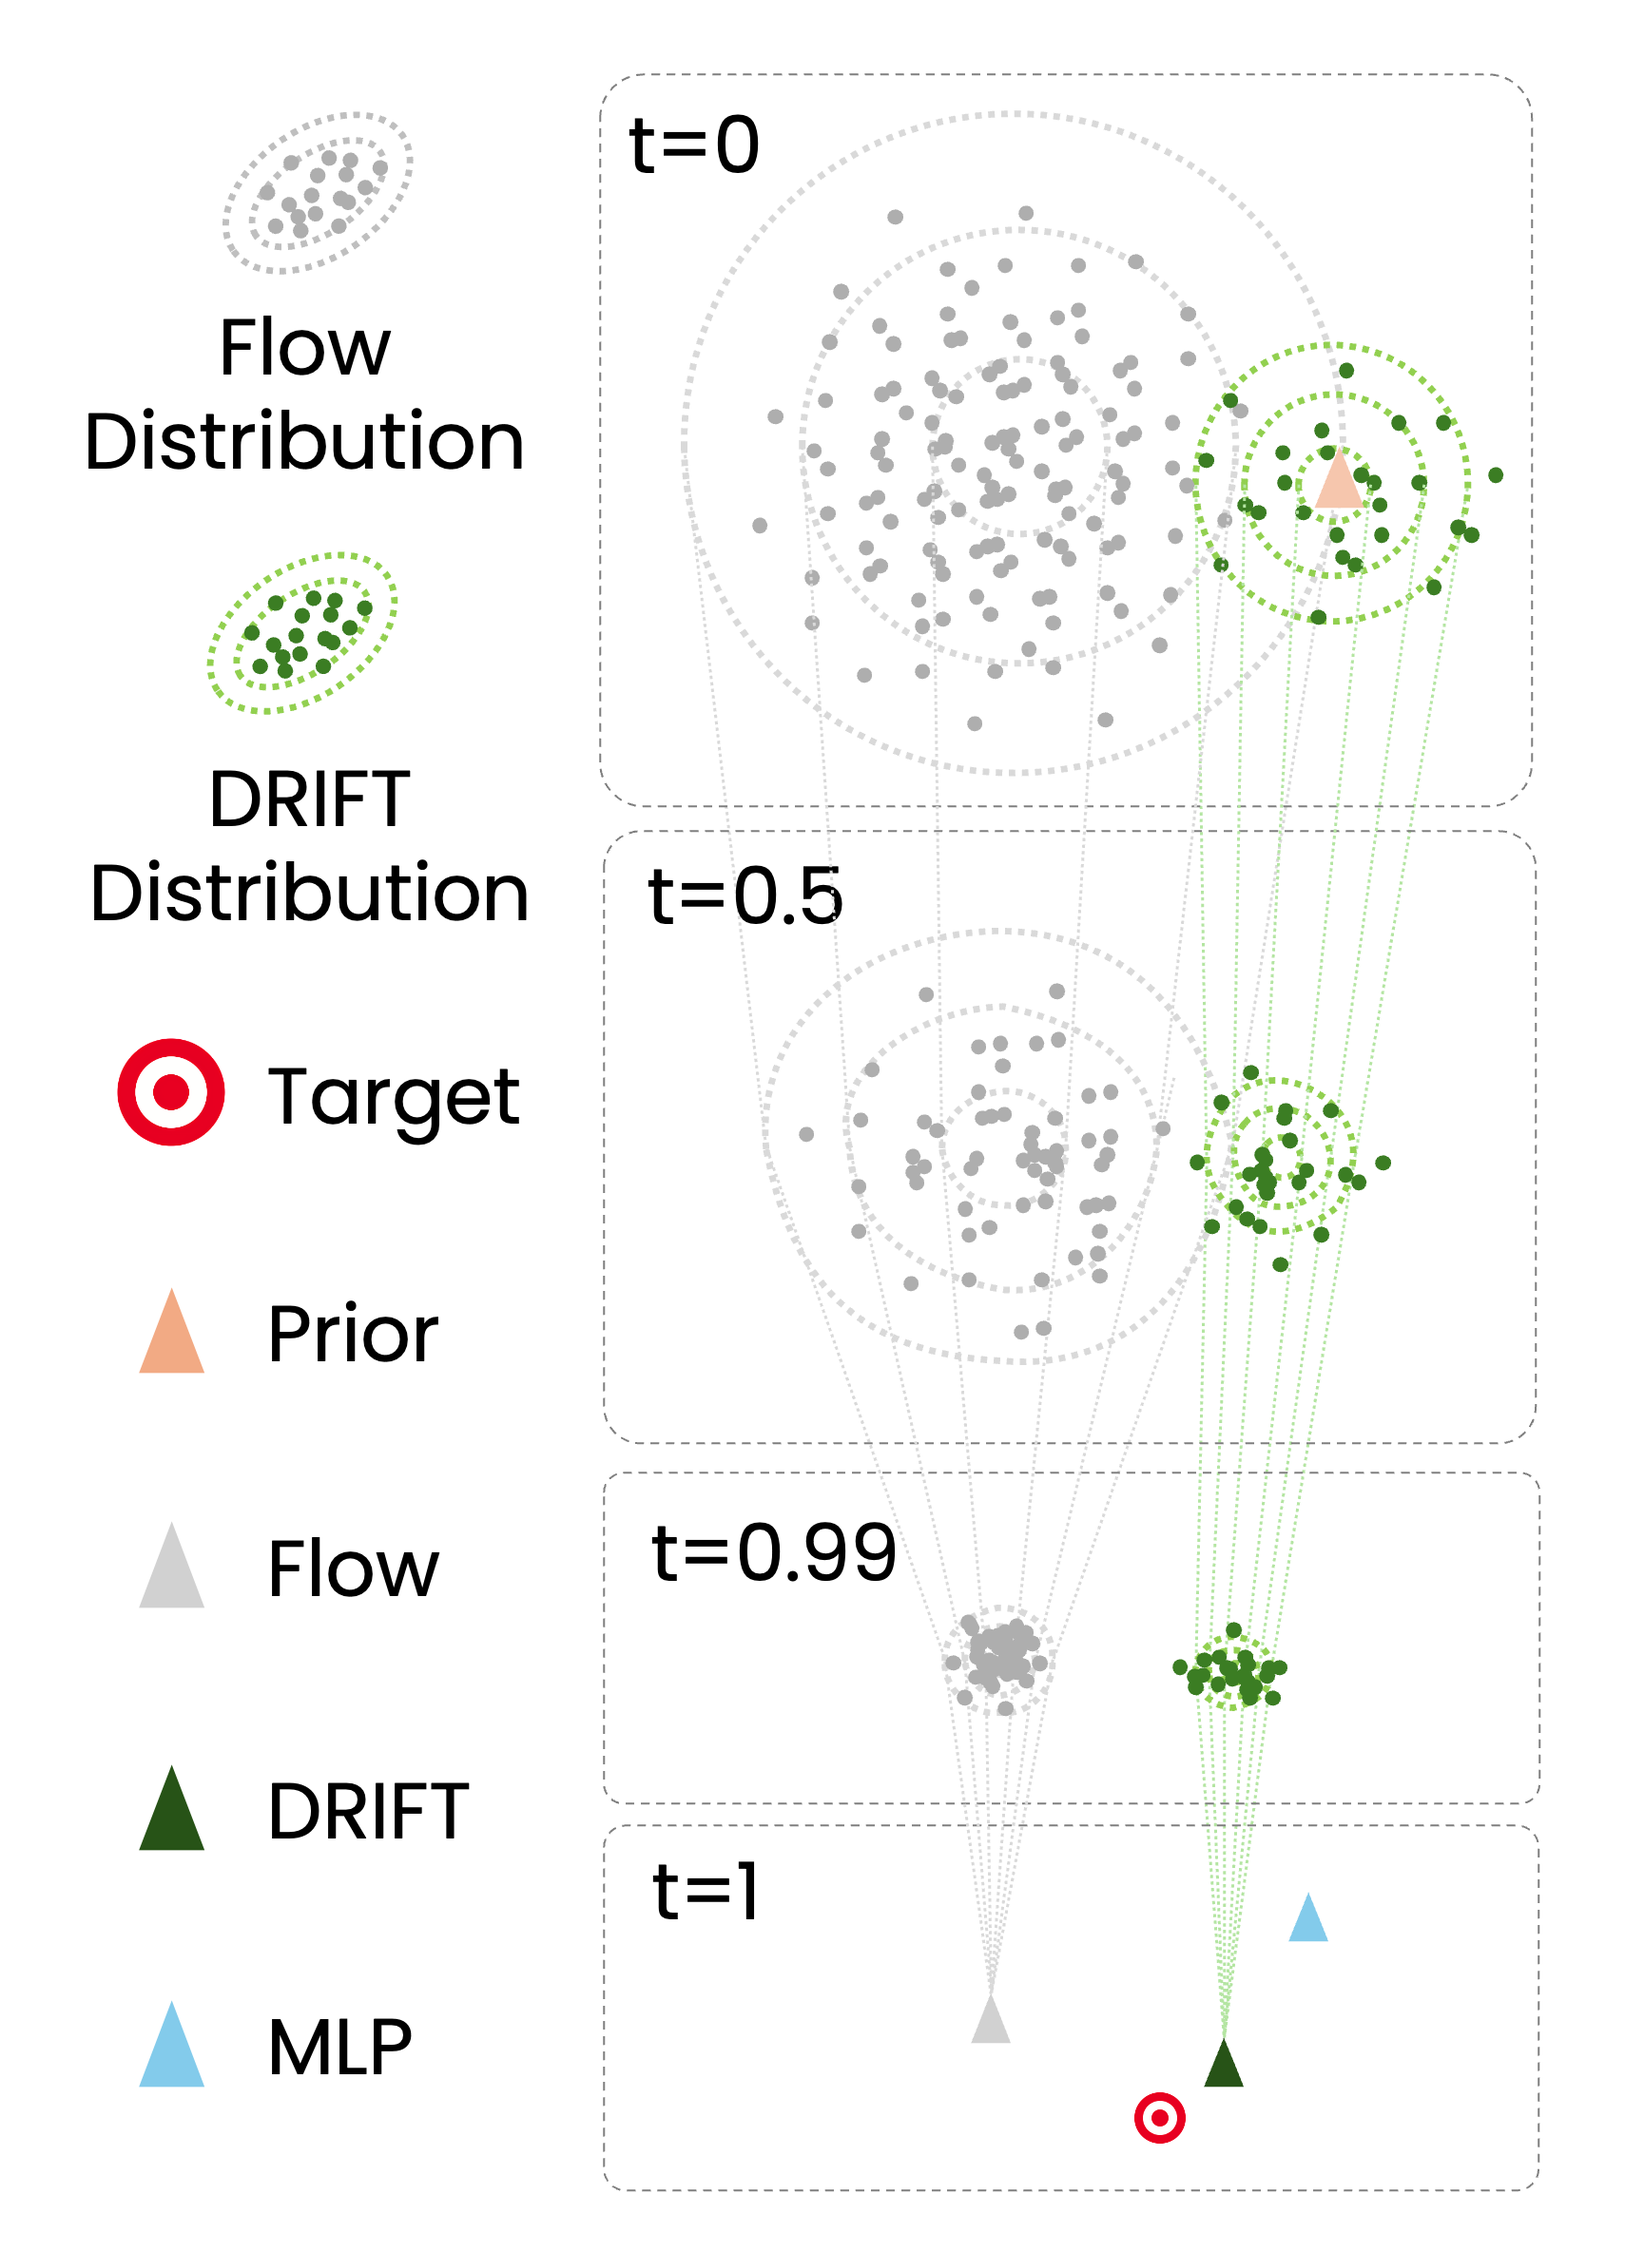
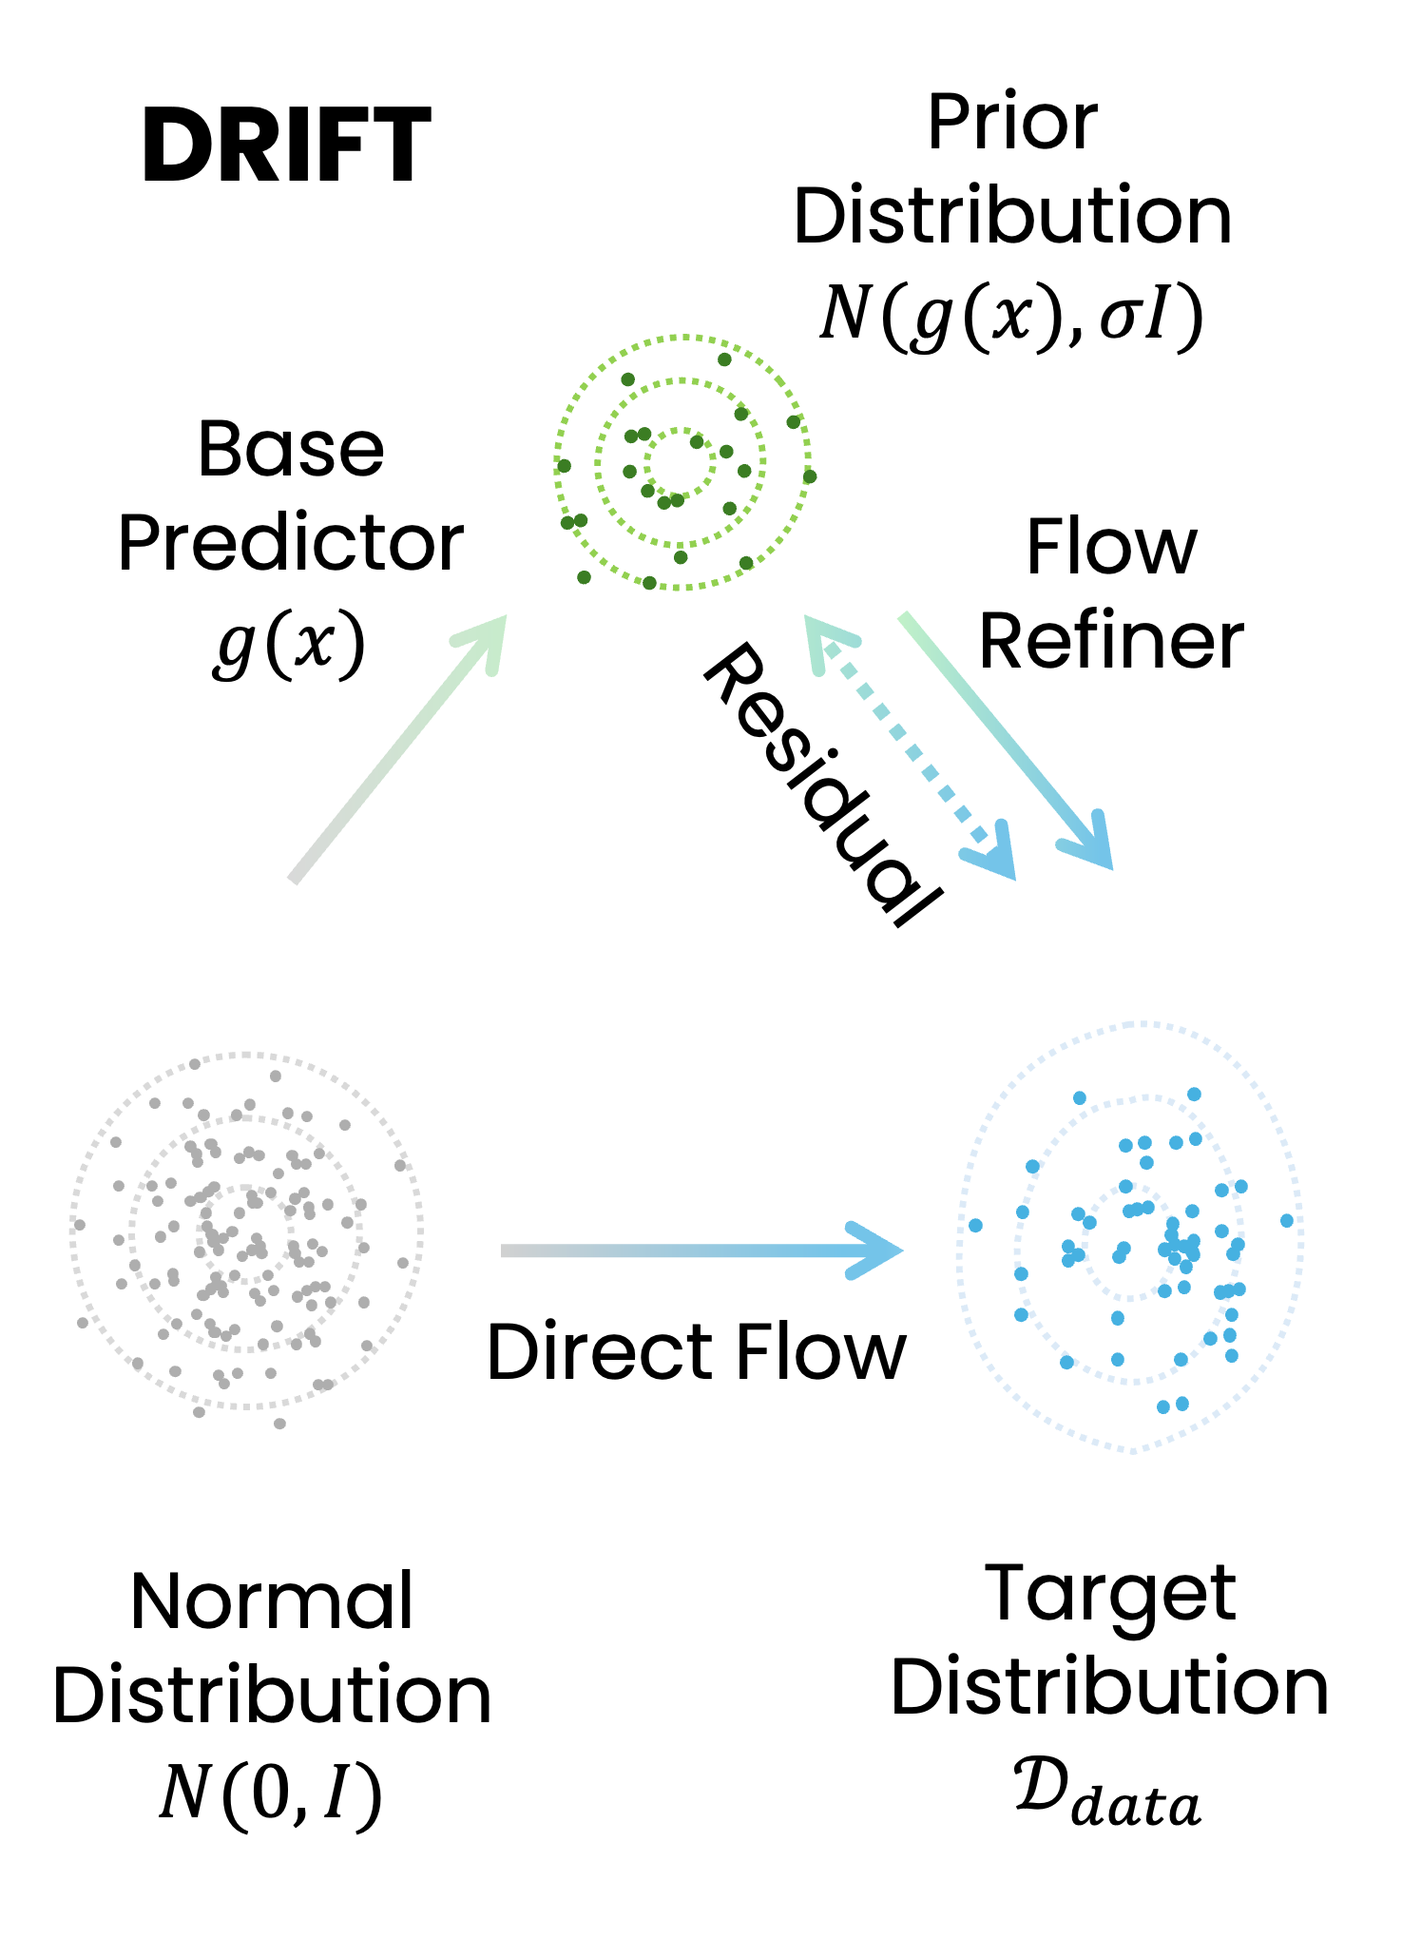
update for arxiv link

diff --git a/index.html b/index.html
@@ -549,7 +549,7 @@
                 <div>
                     <p class="eyebrow">Vision-Language Models for Continuous Outputs</p>
                     <h1 class="title">DRIFT: A Residual Flow Adapter for Decoding Continuous Outputs in Vision-Language Models</h1>
-                    <p class="author">Zhuoming Liu<sup>*</sup>, Jinhong Lin<sup>*</sup>, Kwan Man Cheng, Lin Zhang, Shayok Bagchi, Yin Li</p>
+                    <p class="author">Zhuoming Liu<sup>*</sup>, Jinhong Lin<sup>*</sup>, Kwan Man Cheng<sup>*</sup>, Lin Zhang, Shayok Bagchi, Yin Li</p>
                     <p class="author-note"><sup>*</sup>Co-first Author</p>
                     <p class="abstract">
                         DRIFT adapts pretrained vision-language models to tasks that require precise continuous predictions. It couples a base predictor, which provides a coarse target estimate, with a flow-matching residual refinement module that iteratively improves the output around that prior.
@@ -562,8 +562,7 @@
                         <a href="https://github.com/dragonlzm/DRIFT" class="button icon">Code <i class="fa-solid fa-code"></i></a>
                         <!-- TODO: Replace HUGGINGFACE_URL with the model, dataset, or Space URL. -->
                         <a href="#" class="button icon pending" aria-disabled="true">Hugging Face <i class="fa-regular fa-face-smile"></i></a>
-                        <!-- TODO: Replace ARXIV_URL with the arXiv abstract URL once released. -->
-                        <a href="#" class="button icon pending" aria-disabled="true">arXiv <i class="fa-solid fa-scroll"></i></a>
+                        <a href="https://arxiv.org/abs/2606.05758" class="button icon">arXiv <i class="fa-solid fa-scroll"></i></a>
                     </div>
                 </div>
             </div>
@@ -1001,7 +1000,7 @@
         <div class="resource-grid">
             <div class="resource-card">
                 <h3><i class="fa-regular fa-file-pdf"></i> Paper</h3>
-                <p>Slot prepared for the arXiv paper link once the public manuscript is released.</p>
+                <p>Read the paper on <a href="https://arxiv.org/abs/2606.05758">arXiv</a> or download the <a href="https://arxiv.org/pdf/2606.05758">PDF</a>.</p>
             </div>
             <div class="resource-card">
                 <h3><i class="fa-solid fa-code"></i> Code</h3>
@@ -1027,7 +1026,7 @@
             </div>
             <!-- <div class="timeline-item">
                 <h3>Release Links</h3>
-                <p>Update the prepared Code, Hugging Face, and arXiv buttons once the public artifacts are ready.</p>
+                <p>Update the prepared Code and Hugging Face buttons once the public artifacts are ready.</p>
             </div> -->
         </div>
     </div>
@@ -1037,7 +1036,9 @@
 <pre><code class="plaintext">@article{drift2026,
   title={DRIFT: A Residual Flow Adapter for Decoding Continuous Outputs in Vision-Language Models},
   author={Liu, Zhuoming and Lin, Jinhong and Cheng, Kwan Man and Zhang, Lin and Bagchi, Shayok and Li, Yin},
-  journal={arXiv preprint},
+  journal={arXiv preprint arXiv:2606.05758},
+  eprint={2606.05758},
+  archivePrefix={arXiv},
   year={2026}
 }</code></pre>
     </div>

diff --git a/README.md b/README.md
@@ -5,7 +5,7 @@
 <h1 align="center">DRIFT: A Residual Flow Adapter for Decoding Continuous Outputs in Vision-Language Models</h1>
 
 <p align="center">
-  <a href="#"><img src="https://img.shields.io/badge/arXiv-Coming%20Soon-red"></a>
+  <a href="https://arxiv.org/abs/2606.05758"><img src="https://img.shields.io/badge/arXiv-2606.05758-red"></a>
   <a href="https://dragonlzm.github.io/DRIFT/"><img src="https://img.shields.io/badge/Project-Page-brightgreen"></a>
   <a href="#"><img src="https://img.shields.io/badge/Code-Coming%20Soon-blue"></a>
   <a href="#"><img src="https://img.shields.io/badge/%F0%9F%A4%97%20Hugging%20Face-Coming%20Soon-purple"></a>
@@ -29,7 +29,7 @@ DRIFT combines a base predictor, which provides a coarse estimate of the target 
 - **Continuous decoding for VLMs:** Adapts discrete autoregressive vision-language backbones to precise continuous prediction tasks.
 - **Residual flow refinement:** Uses flow matching to iteratively refine coarse predictions rather than replacing the pretrained model interface.
 - **Broad task coverage:** Prepared for VLA, temporal video grounding, and spatial grounding demonstrations.
-- **Release slots ready:** Code, Hugging Face artifacts, and arXiv links will be added once public.
+- **arXiv preprint:** The paper is available at [arXiv:2606.05758](https://arxiv.org/abs/2606.05758).
 
 ## Project Page
 
@@ -41,7 +41,9 @@ The project page is provided in [Here](https://dragonlzm.github.io/DRIFT/). It i
 @article{drift2026,
   title={DRIFT: A Residual Flow Adapter for Decoding Continuous Outputs in Vision-Language Models},
   author={Liu, Zhuoming and Lin, Jinhong and Cheng, Kwan Man and Zhang, Lin and Bagchi, Shayok and Li, Yin},
-  journal={arXiv preprint},
+  journal={arXiv preprint arXiv:2606.05758},
+  eprint={2606.05758},
+  archivePrefix={arXiv},
   year={2026}
 }
 ```
